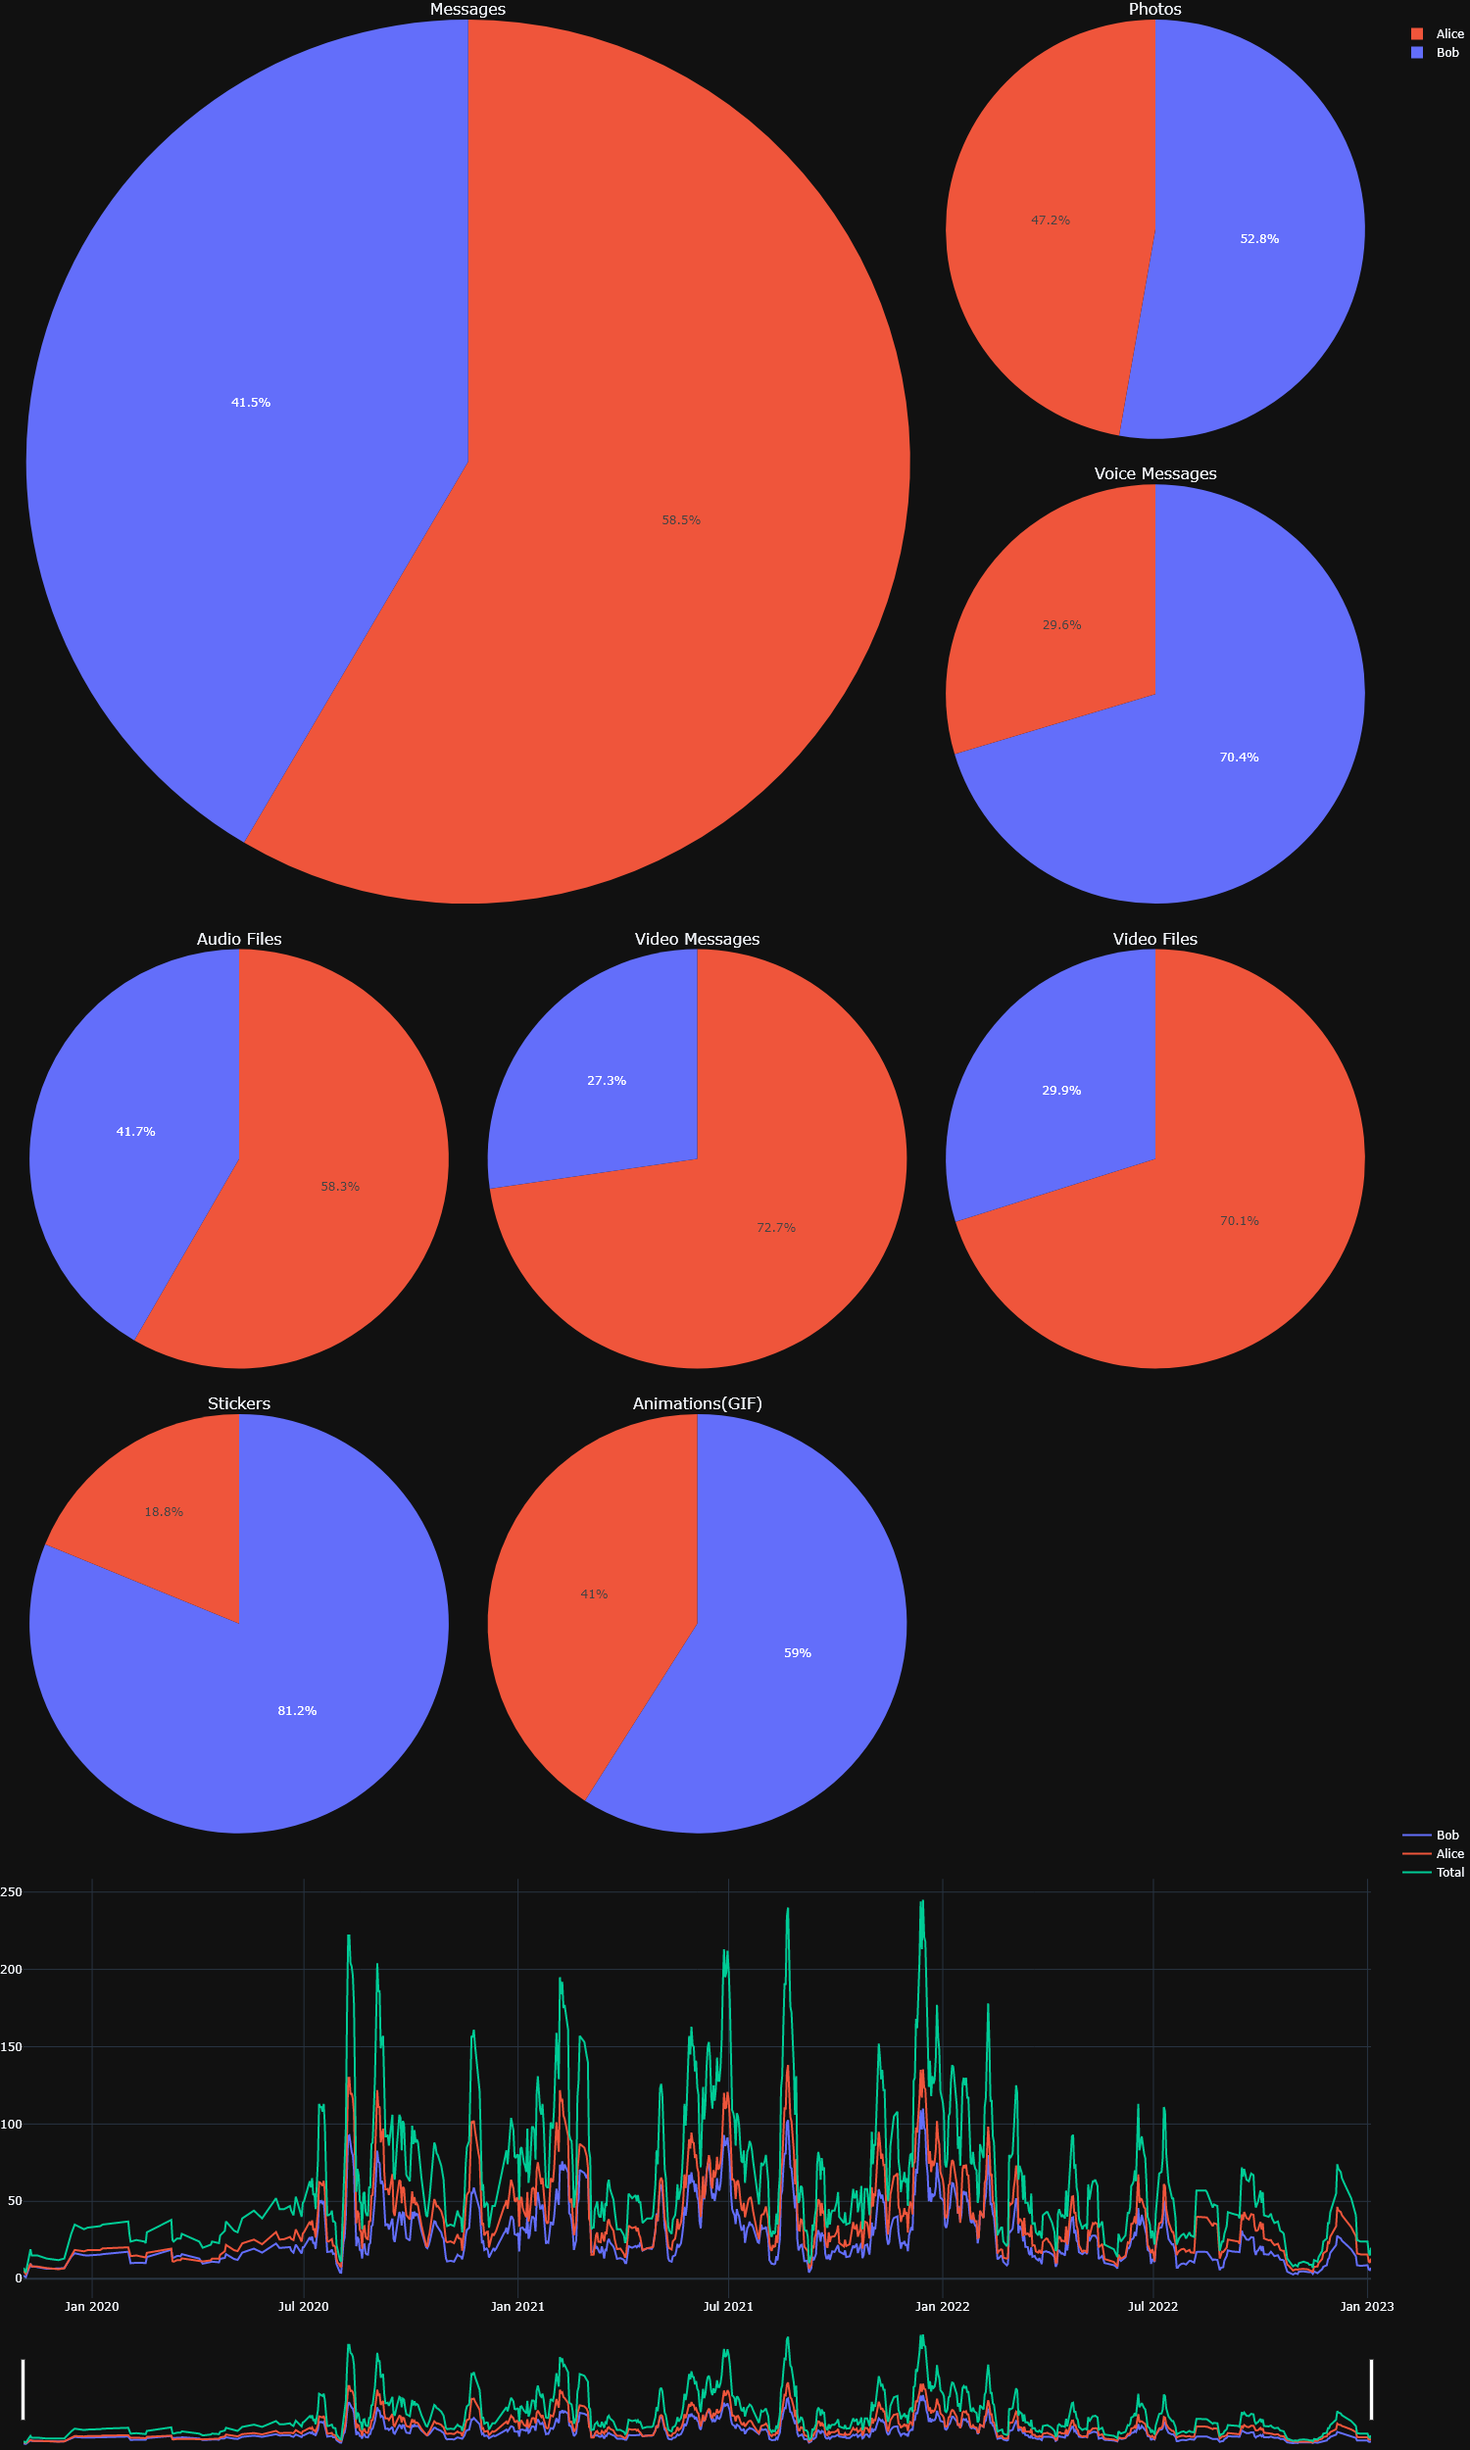
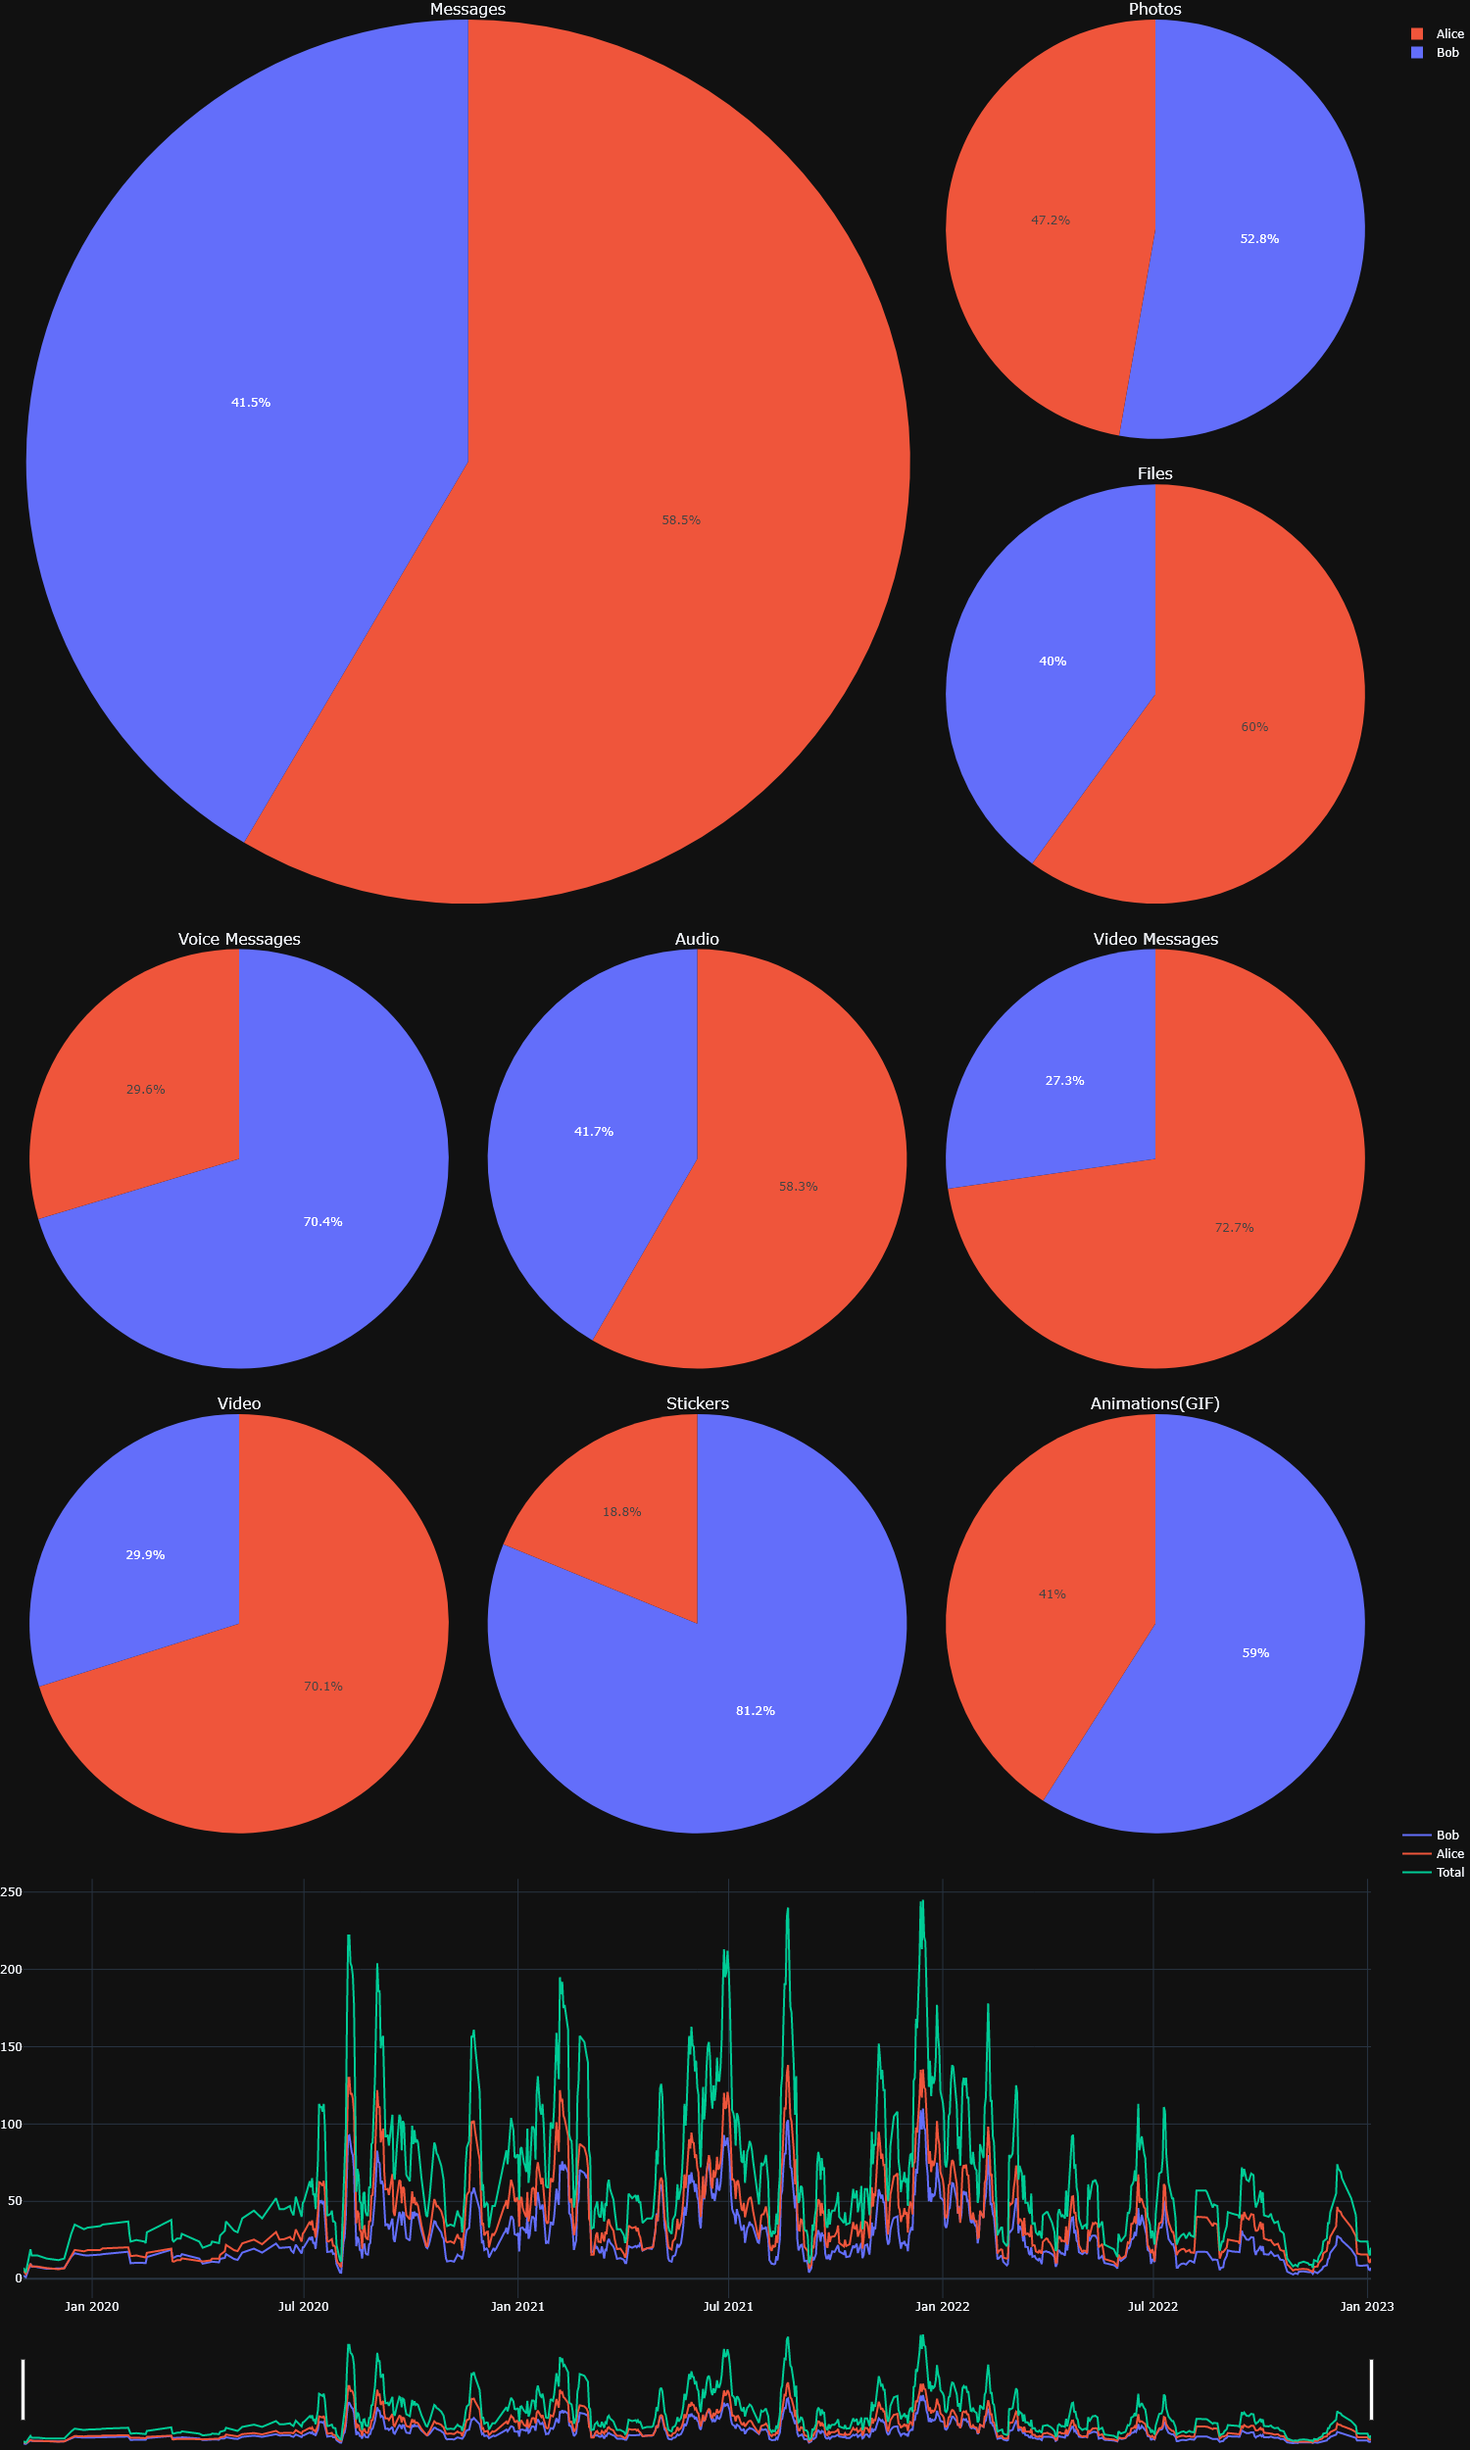
Added count for Files

diff --git a/TelegramVisualizer/telegram_visualizer.py b/TelegramVisualizer/telegram_visualizer.py
@@ -13,10 +13,11 @@ import numpy as np
 class TelegramVisualizer():
     MEDIA_TYPES = {"message": "Messages",
                    "photo": "Photos",
+                   "file": "Files",
                    "voice_message": "Voice Messages",
-                   "audio_file": "Audio Files",
+                   "audio_file": "Audio",
                    "video_message": "Video Messages",
-                   "video_file": "Video Files",
+                   "video_file": "Video",
                    "sticker": "Stickers",
                    "animation": "Animations(GIF)",
                    }
@@ -36,7 +37,7 @@ class TelegramVisualizer():
                  ):
         """
         # TelegramVisualizer
-        
+
         This allows you to create cool and interesting stats and interactive graphs from your Telegram chats.
 
         Parameters
@@ -91,11 +92,11 @@ class TelegramVisualizer():
             pio.templates.default = "plotly_white"
 
         self.legend_group = 1
-        if os.path.splitext(chat_history_path)[1] == "result.json":
+        if os.path.basename(chat_history_path) == "result.json":
             self.dir_name = os.path.dirname(chat_history_path)
         else:
             self.dir_name = chat_history_path
-
+        print(self.dir_name)
         self.messages_df_path = os.path.join(
             self.dir_name, "messages.csv")
         self.media_count_df_path = os.path.join(
@@ -124,7 +125,7 @@ class TelegramVisualizer():
         self.generate_plots()
 
     def __generate_df(self):
-        json_path = os.path.join(self.chat_history_path, "result.json")
+        json_path = os.path.join(self.dir_name, "result.json")
         if not os.path.exists(json_path):
             raise(ValueError(
                 "No result.json file could be found in {} directory".format(self.dir_name)))
@@ -173,7 +174,9 @@ class TelegramVisualizer():
 
             if "media_type" in msg:
                 self.media_count_df[self.MEDIA_TYPES[msg["media_type"]]][user] += 1
-            if "photo" in msg:
+            elif "mime_type" in msg:
+                self.media_count_df["Files"][user] += 1
+            elif "photo" in msg:
                 self.media_count_df["Photos"][user] += 1
 
         self.media_count_df[self.MEDIA_TYPES["message"]
@@ -261,7 +264,6 @@ class TelegramVisualizer():
         else:
             specs = np.array([[{"type": "xy"}]])
 
-
         inds = np.argwhere(specs != None)
 
         subplot_titles = titles
@@ -314,7 +316,8 @@ class TelegramVisualizer():
         self.fig.update_layout(autosize=False,
                                width=width,
                                height=height,
-                               legend_tracegroupgap=height*(n_rows-1)/n_rows*0.9,
+                               legend_tracegroupgap=height *
+                               (n_rows-1)/n_rows*0.9,
                                margin=dict(l=20, r=0, t=20, b=0))
 
         if self.dark_mode:
@@ -322,7 +325,6 @@ class TelegramVisualizer():
                                    xaxis_rangeselector_activecolor='#555555',
                                    xaxis_rangeselector_bgcolor='#202124')
 
-        self.fig.update_yaxes(automargin=True)
 
     def plot(self):
         self.fig.show()
@@ -337,7 +339,6 @@ class TelegramVisualizer():
             except ImportError as e:
                 raise(ImportError(
                     "You need the kaleido package to export as static image.\nUse \"pip install kaleido\""))
-            pio.kaleido.scope.mathjax = None
             self.fig.update_xaxes(rangeselector=None)
             self.fig.write_image(save_path)
         else:

diff --git a/example.py b/example.py
@@ -2,9 +2,7 @@ from TelegramVisualizer import TelegramVisualizer
 
 telegram_visualizer = TelegramVisualizer(
     chat_history_path="data/",
-    columns=3,
-    dark_mode=True
 )
 
-# telegram_visualizer.plot()
-telegram_visualizer.save("output_3_columns_dark_mode.png")
+telegram_visualizer.plot()
+telegram_visualizer.save("output.png")
